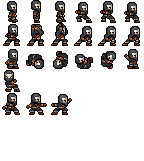
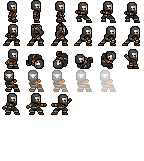
Made character to flash when hurting.

diff --git a/lib/game/entities/classes/ninja.js b/lib/game/entities/classes/ninja.js
@@ -55,7 +55,7 @@ ig.module (
             this.addAnim('idle', 0.3, [3, 4, 5, 4]);
             this.addAnim('walk', 0.2, [0, 1, 2, 1]);
             this.addAnim('run', 0.1, [0, 1, 2, 1]);
-            this.addAnim('hurt', 0.5, [18], true);
+            this.addAnim('hurt', 0.02, [20, 21, 22, 21, 20, 19, 18], true);
             this.addAnim('jumpGround', 0.14, [12, 13, 14, 15, 16, 17], true);
             this.addAnim('fall', 1, [17], true);
             this.addAnim('attackGround', this.attackSpeed, [6, 7, 8, 9, 10, 11], true);

diff --git a/lib/game/entities/enemies/treant.js b/lib/game/entities/enemies/treant.js
@@ -43,7 +43,7 @@ ig.module (
         initAnimations: function() {
             this.addAnim('idle', 0.4, [0, 1]);
             this.addAnim('walk', 0.2, [12, 13, 14, 13]);
-            this.addAnim('hurt', 0.5, [3], true);
+            this.addAnim('hurt', 0.02, [20, 21, 22, 21, 20, 19, 18], true);
             this.addAnim('block', 1, [2], true);
             this.addAnim('attackGround', this._attackSpeed, [6, 7, 7], true);
             this.addAnim('attackAir', this._attackSpeed, [8, 9, 9], true);

diff --git a/lib/game/entities/enemy.js b/lib/game/entities/enemy.js
@@ -184,9 +184,10 @@ ig.module (
 
             this.stateMachine.state(this.State.HURT, {
                 enter: function() {
+                    self.hurting();
                 },
                 update: function() {
-                    self.hurting();
+
                 },
                 exit: function() {
                 }

diff --git a/lib/game/entities/player.js b/lib/game/entities/player.js
@@ -199,9 +199,10 @@ ig.module (
                 enter: function() {
                     self.state = self.State.HURT;
                     weapon.hide();
+                    self.hurting();
                 },
                 update: function() {
-                    self.hurting();
+
                 }
             });
 
